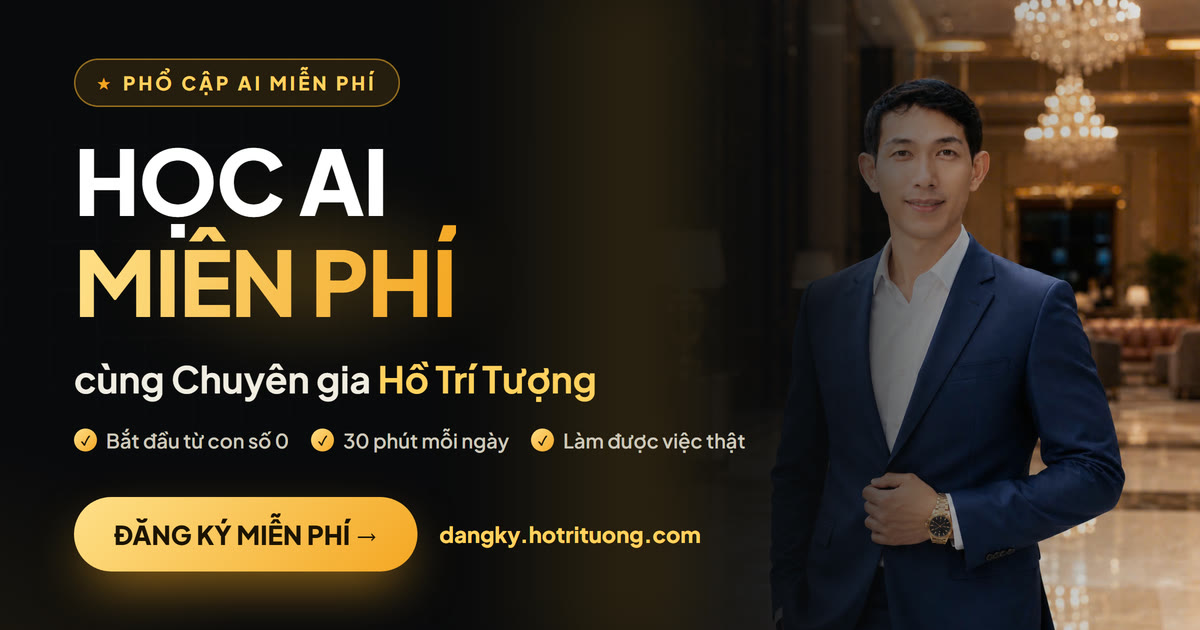
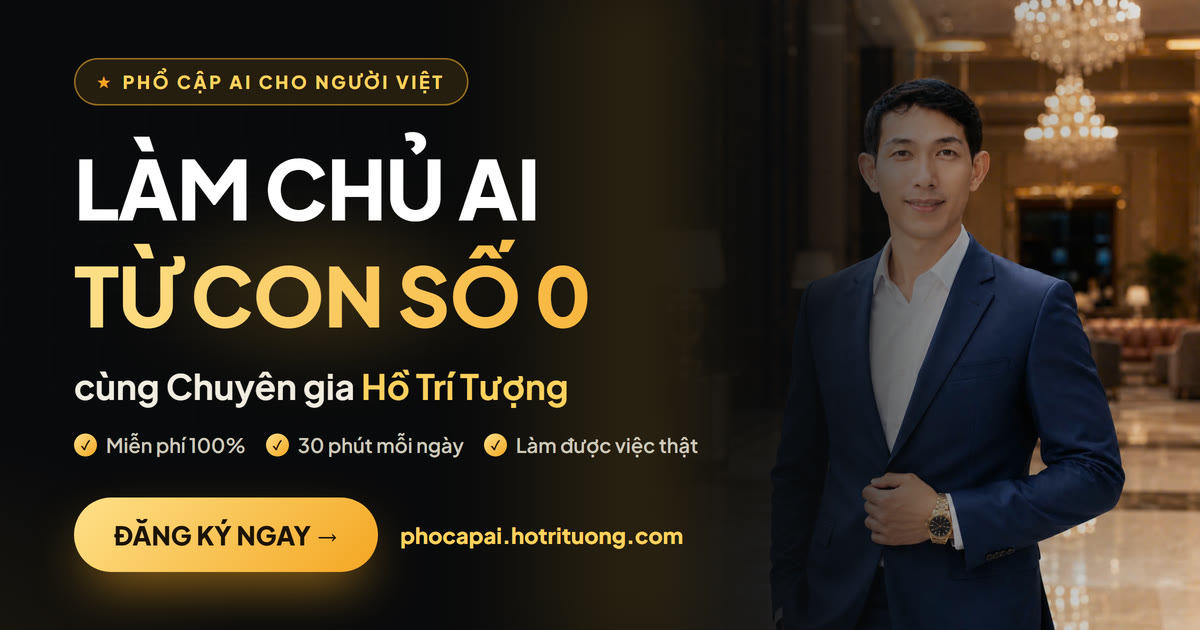
Add files via upload

diff --git a/index.html b/index.html
@@ -8,11 +8,11 @@
 
 <!-- Open Graph / chia sẻ mạng xã hội (Zalo, Facebook, Messenger...) -->
 <meta property="og:type" content="website" />
-<meta property="og:url" content="https://dangky.hotrituong.com/" />
+<meta property="og:url" content="https://phocapai.hotrituong.com/" />
 <meta property="og:title" content="Học AI miễn phí cùng Chuyên gia Hồ Trí Tượng" />
 <meta property="og:description" content="Chương trình Phổ cập AI cho người bắt đầu từ con số 0 — 30 phút mỗi ngày, làm được việc thật. Đăng ký miễn phí, vào nhóm Zalo ngay." />
-<meta property="og:image" content="https://dangky.hotrituong.com/og.jpg" />
-<meta property="og:image:secure_url" content="https://dangky.hotrituong.com/og.jpg" />
+<meta property="og:image" content="https://phocapai.hotrituong.com/og.jpg" />
+<meta property="og:image:secure_url" content="https://phocapai.hotrituong.com/og.jpg" />
 <meta property="og:image:type" content="image/jpeg" />
 <meta property="og:image:width" content="1200" />
 <meta property="og:image:height" content="630" />
@@ -22,7 +22,7 @@
 <meta name="twitter:card" content="summary_large_image" />
 <meta name="twitter:title" content="Học AI miễn phí cùng Chuyên gia Hồ Trí Tượng" />
 <meta name="twitter:description" content="Phổ cập AI cho người bắt đầu từ con số 0 — 30 phút mỗi ngày, làm được việc thật." />
-<meta name="twitter:image" content="https://dangky.hotrituong.com/og.jpg" />
+<meta name="twitter:image" content="https://phocapai.hotrituong.com/og.jpg" />
 
 <!--
   ============================================================
@@ -415,7 +415,7 @@
         <span class="brand-sub">Chuyên gia AI · Phổ cập AI thực chiến</span>
       </span>
     </a>
-    <a class="btn header-cta" href="#dangky">Đăng ký miễn phí</a>
+    <a class="btn header-cta" href="#dangky">Đăng ký ngay</a>
   </div>
 </header>
 
@@ -440,8 +440,8 @@
       </ul>
 
       <div class="hero-actions">
-        <a class="btn btn--lg" href="#dangky">ĐĂNG KÝ MIỄN PHÍ NGAY →</a>
-        <span class="hero-note">Miễn phí 100% · Vào nhóm Zalo ngay sau khi đăng ký</span>
+        <a class="btn btn--lg" href="#dangky">ĐĂNG KÝ NGAY →</a>
+        <span class="hero-note">Vào nhóm Zalo &amp; nhận tài liệu ngay sau khi đăng ký</span>
       </div>
     </div>
 
@@ -645,7 +645,7 @@
   <div class="wrap">
     <div class="section-head">
       <span class="eyebrow">Bước cuối cùng</span>
-      <h2>Đăng ký tham gia — Miễn phí 100%</h2>
+      <h2>Đăng ký tham gia chương trình</h2>
       <p>Điền nhanh khoảng 1 phút. Ngay sau đó bạn nhận link vào nhóm Zalo cùng bộ tài liệu cho người mới bắt đầu. Chỗ trong mỗi đợt có giới hạn để kịp hỗ trợ từng người.</p>
     </div>
 
@@ -699,7 +699,7 @@
         <div class="submit-row">
           <button type="submit" class="btn btn--lg btn--block" id="rsubmit">GỬI ĐĂNG KÝ →</button>
         </div>
-        <p class="hint">Thông tin được gửi trực tiếp &amp; bảo mật · Miễn phí 100%</p>
+        <p class="hint">Thông tin của anh/chị được gửi trực tiếp và bảo mật</p>
       </form>
 
       <div class="form-done" id="rdone" hidden>
